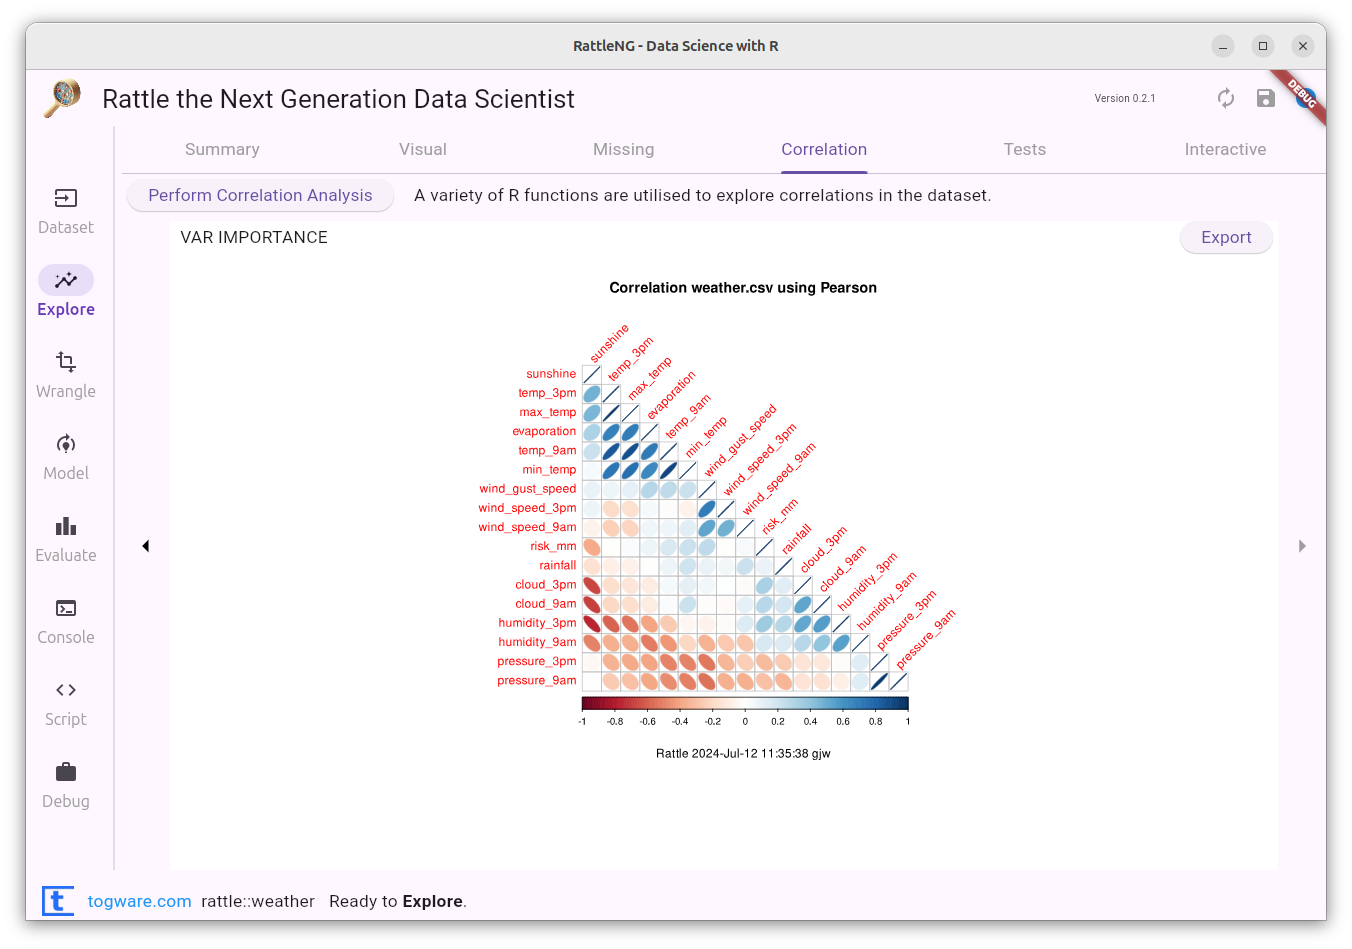
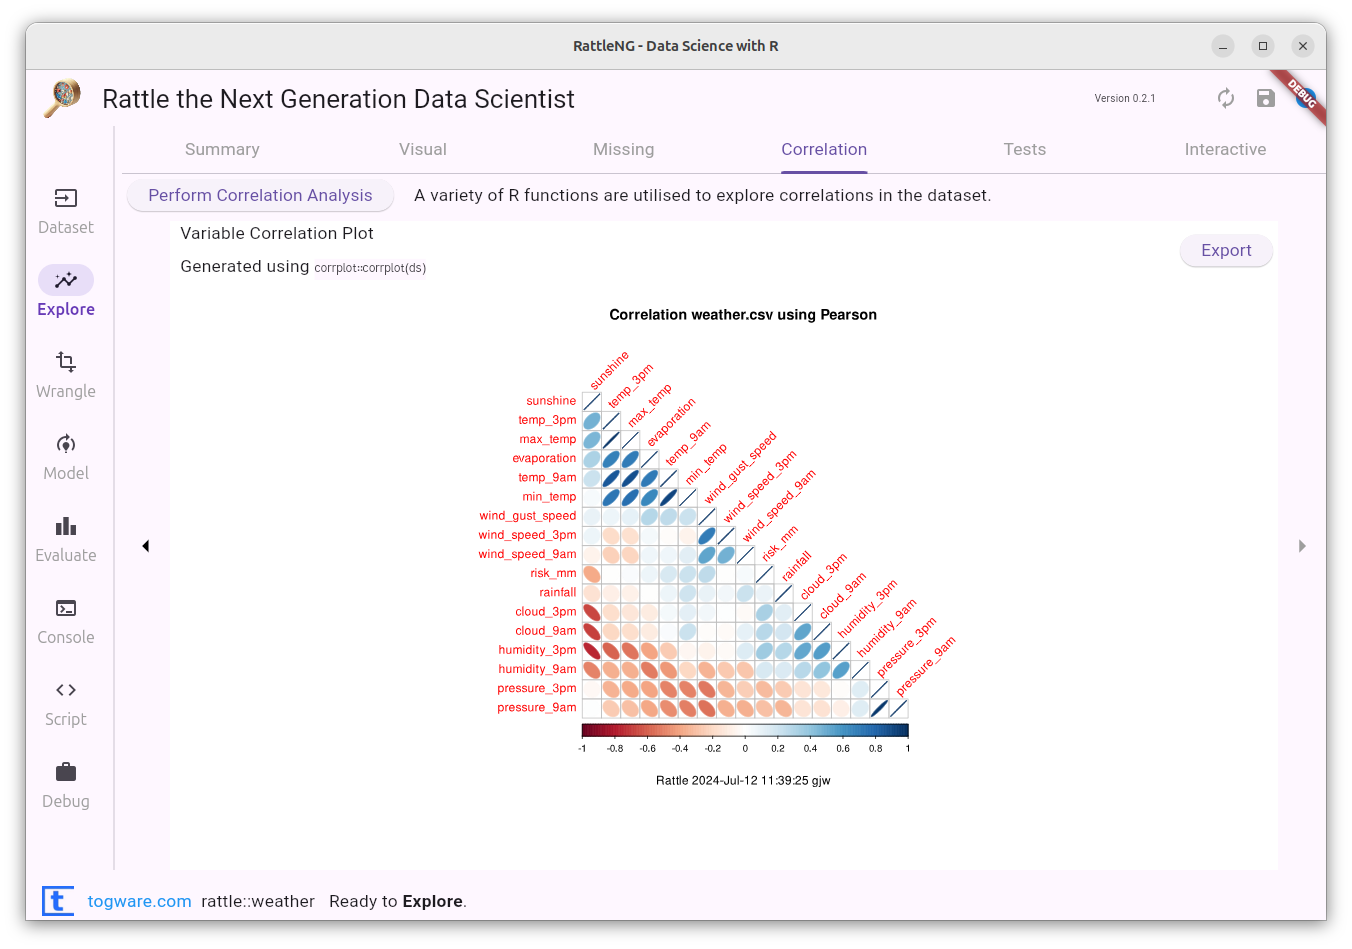
Update corrplot title.

Changed region(s): [[0.3417, 0.275, 0.7145, 0.8251], [0.1243, 0.2445, 0.3107, 0.3056], [0.8698, 0.2445, 0.932, 0.275]]

diff --git a/lib/features/correlation/display.dart b/lib/features/correlation/display.dart
@@ -5,7 +5,7 @@
 /// License: GNU General Public License, Version 3 (the "License")
 /// https://www.gnu.org/licenses/gpl-3.0.en.html
 //
-// Time-stamp: <Thursday 2024-07-11 21:03:00 +1000 Graham Williams>
+// Time-stamp: <Friday 2024-07-12 11:39:05 +1000 Graham Williams>
 //
 // This program is free software: you can redistribute it and/or modify it under
 // the terms of the GNU General Public License as published by the Free Software
@@ -84,7 +84,8 @@ class _CorrelationDisplayState extends ConsumerState<CorrelationDisplay> {
 
     pages.add(
       const ImagePage(
-        title: 'VAR IMPORTANCE',
+        title: 'Variable Correlation Plot\n\n'
+            'Generated using `corrplot::corrplot(ds)`',
         path: '/tmp/explore_correlation.svg',
       ),
     );
